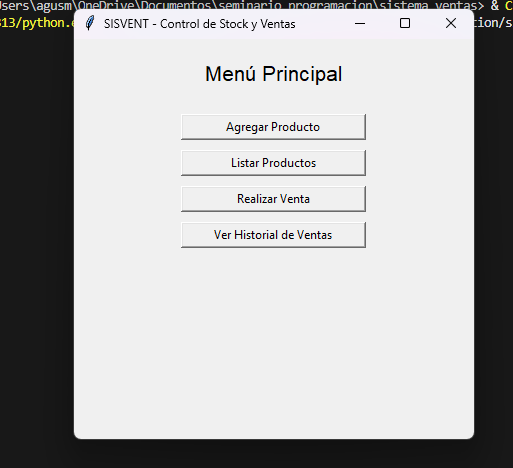
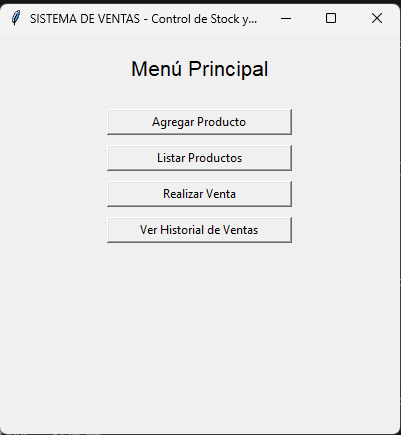
cambios realizados en documentacion

diff --git a/Vista/Interfaz.py b/Vista/Interfaz.py
@@ -6,7 +6,7 @@ from Modelo.Fabrica_producto import ProductoFactory
 class InterfazApp:
     def __init__(self, root):
         self.root = root
-        self.root.title("SISVENT - Control de Stock y Ventas")
+        self.root.title("SISTEMA DE VENTAS - Control de Stock y Ventas")
         self.root.geometry("400x400")
 
         self.gestor = GestorSistema()

diff --git a/Documentacion.md b/Documentacion.md
@@ -88,6 +88,6 @@ No requiere librerías externas. Todo el código está contenido localmente.
 ![Venta](./img/realizarVenta.png)
 
 #### 🖼 Historial de ventas
-![Historial](./img/HistorialVentas.pngs)
+![Historial](./img/HistorialVentas.png)
 
 ---
